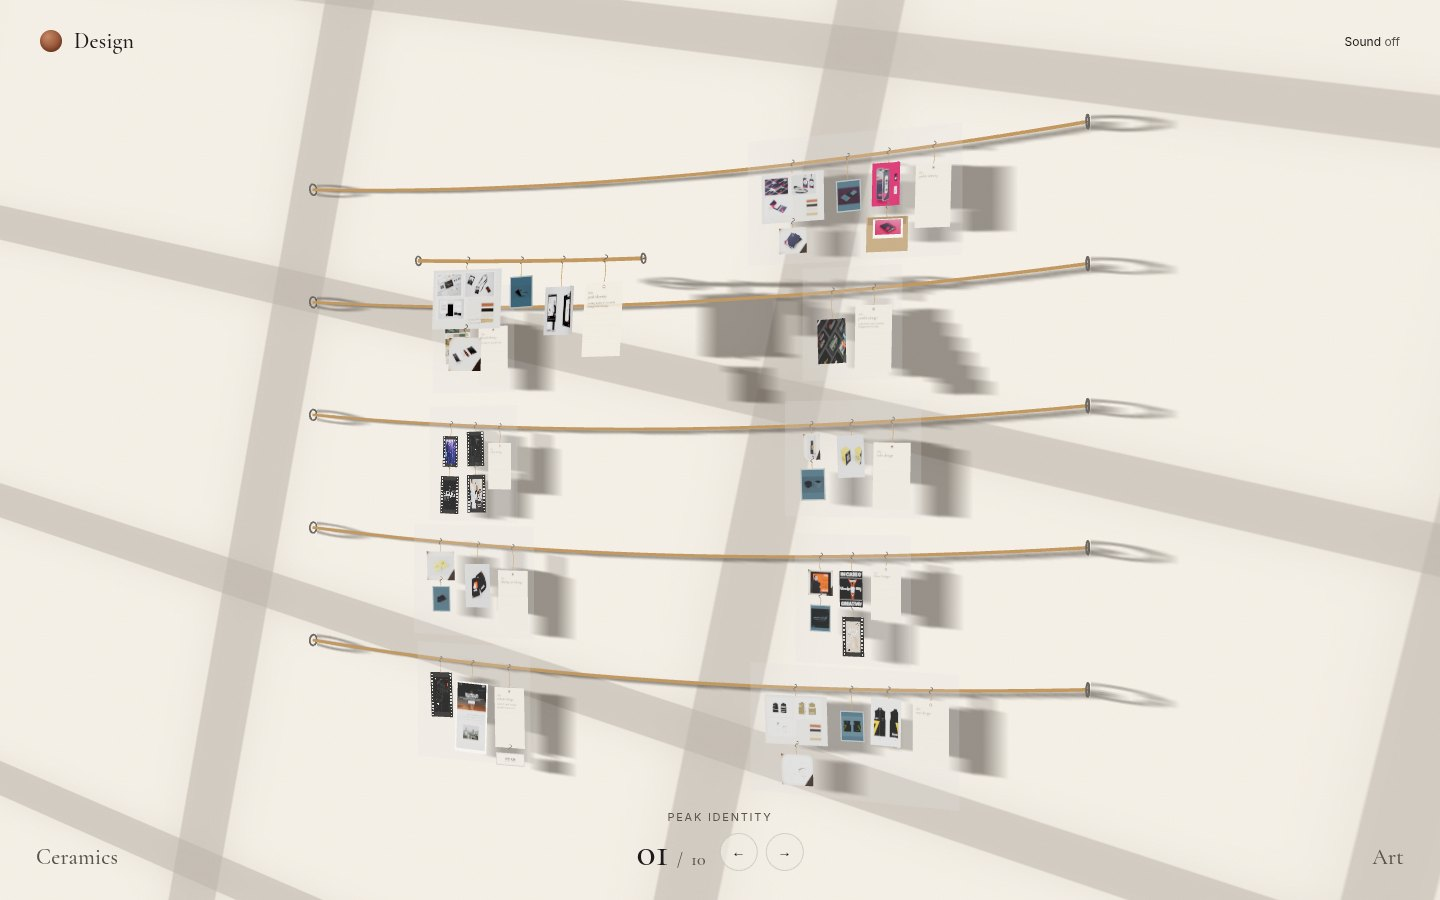
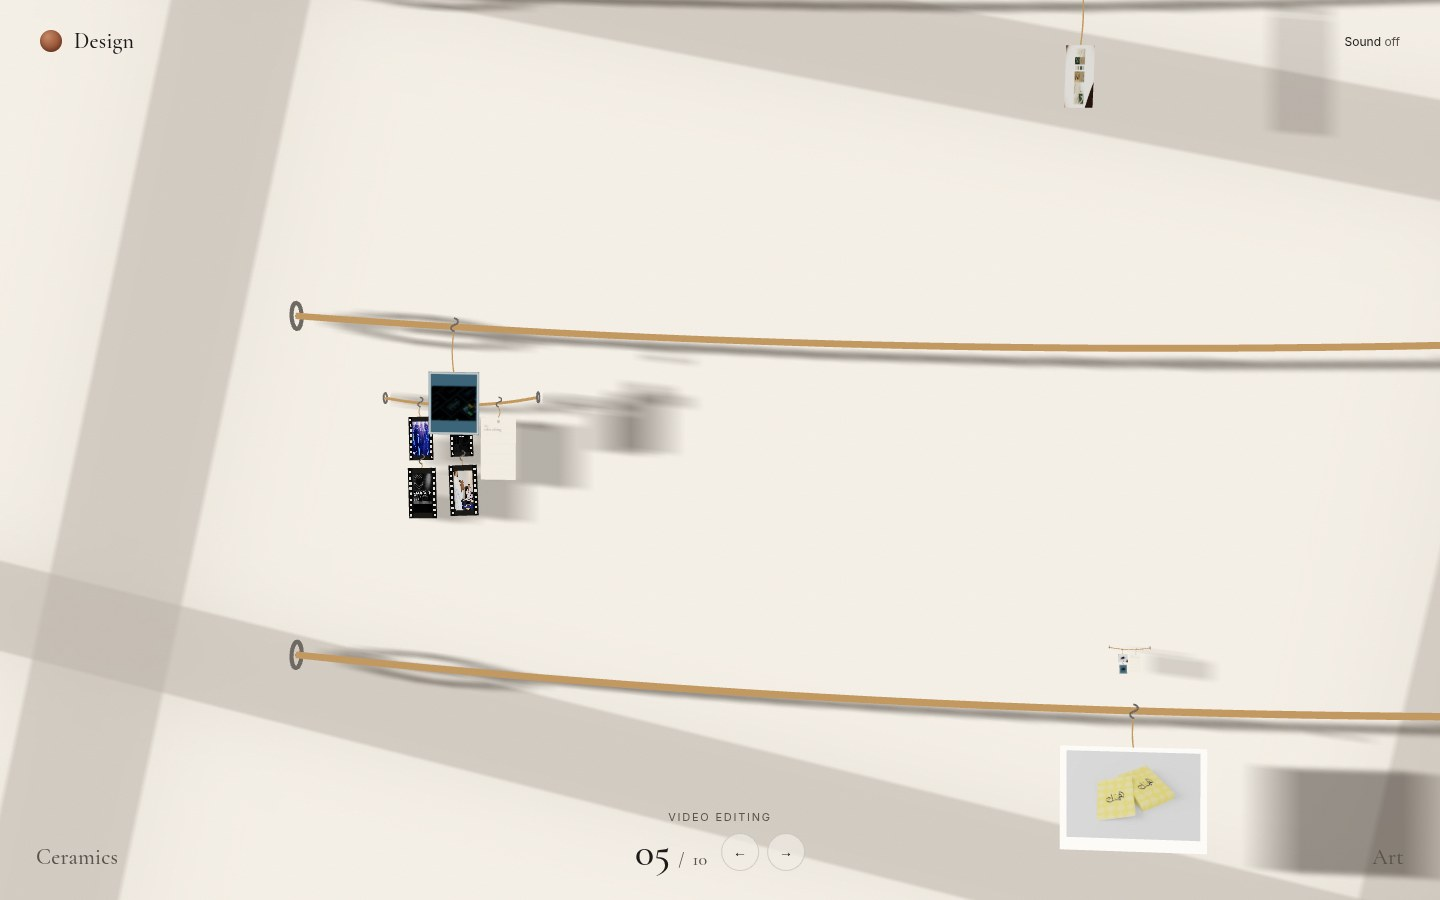
Frame each project so only its cover and back strings show.
The overview stays on the front covers. An arrow zooms in until the
other projects are outside the frame, and that project's back strings
lower into place on the way in.

diff --git a/js/design.js b/js/design.js
@@ -9,8 +9,8 @@ import * as THREE from 'three';
 
 const WALL_HALF = 5.2;
 const SAG = 0.22;
-const ROW_PITCH = 2.4;
-const TOP_Y = 7.3;
+const ROW_PITCH = 1.88;
+const TOP_Y = 6.35;
 const MAX_W = 4.25;
 const COL_MAX = 1.18;
 const TUCK_Y = 0.28;
@@ -681,7 +681,13 @@ export async function createDesign(renderer, { reduce, projects }) {
     const row = Math.floor(index / 2);
     const col = index % 2;
     const cols = Math.min(2, prepared.length - row * 2);
-    const side = cols === 1 ? (place() - 0.5) * 1.4 : (col === 0 ? -1 : 1) * (2.15 + place() * 1.2);
+    const jitter = (place() - 0.5) * 0.55;
+    let side = jitter;
+    if (cols > 1) {
+      const stagger = row % 2 === 0;
+      if (col === 0) side = (stagger ? -4.05 : -0.85) + jitter;
+      else side = (stagger ? 0.85 : 4.05) + jitter;
+    }
     const home = new THREE.Vector3(side, TOP_Y - row * ROW_PITCH, 0.18);
     const lineGroup = new THREE.Group();
     const cluster = lineGroup;
@@ -855,7 +861,7 @@ export async function createDesign(renderer, { reduce, projects }) {
     const heroStyle = entry.cover ? heroStyles[index % heroStyles.length] : 'print';
     const heroRnd = hash(index + 29);
     const heroSize = unitSize(heroStyle, entry.cover || { aspect: 1 });
-    const heroScale = heroStyle === 'cyan' || heroStyle === 'burnt' ? 1.2 : 1.45;
+    const heroScale = heroStyle === 'cyan' || heroStyle === 'burnt' ? 0.95 : 1.12;
     const hero = {
       style: heroStyle,
       image: entry.cover?.image || null,
@@ -885,7 +891,7 @@ export async function createDesign(renderer, { reduce, projects }) {
     const pages = entry.content.filter((item) => item.kind === 'website');
     const rest = entry.content.filter((item) => item.kind !== 'website');
     const hangDepth = heroPivot.position.y - heroBottom;
-    const room = Math.max(0.72, ROW_PITCH - hangDepth - 0.16);
+    const room = Math.max(0.42, ROW_PITCH - hangDepth - 0.36);
     const chunks = [];
     if (pages.length) {
       if (rest.length) chunks.push({ items: rest, tag: false, page: false });
@@ -908,8 +914,8 @@ export async function createDesign(renderer, { reduce, projects }) {
         index * 19 + ri + 4,
         chunk.tag ? (entry.project.text || '') : '',
         {
-          maxW: 2.55,
-          colMax: Math.max(0.42, share - 0.12),
+          maxW: 2.7,
+          colMax: Math.max(0.36, share - 0.06),
           tag: chunk.tag,
         },
       );
@@ -1020,36 +1026,38 @@ export async function createDesign(renderer, { reduce, projects }) {
   }
 
   function overviewPose() {
+    let minX = Infinity;
+    let maxX = -Infinity;
     let minY = Infinity;
     let maxY = -Infinity;
     lines.forEach((line) => {
+      minX = Math.min(minX, Math.min(line.home.x - 0.55, -WALL_HALF));
+      maxX = Math.max(maxX, Math.max(line.home.x + 0.55, WALL_HALF));
       minY = Math.min(minY, line.home.y + line.heroBottom);
       maxY = Math.max(maxY, line.home.y + line.heroTop);
     });
-    const padX = narrow ? 0.45 : 0.7;
-    const padY = narrow ? 0.28 : 0.42;
     fitPose(
-      -WALL_HALF - padX,
-      WALL_HALF + padX,
-      minY - padY,
-      maxY + padY,
+      minX - (narrow ? 0.2 : 0.35),
+      maxX + (narrow ? 0.2 : 0.35),
+      minY - (narrow ? 0.22 : 0.28),
+      maxY + (narrow ? 0.16 : 0.22),
       0.14,
-      narrow ? 0.84 : 0.8,
-      narrow ? 0.28 : 0.78,
+      narrow ? 0.9 : 0.86,
+      narrow ? 0.1 : 0.2,
     );
   }
 
   function focusPose(line) {
-    const padX = narrow ? 0.08 : 0.12;
-    const padY = narrow ? 0.06 : 0.08;
+    const padX = narrow ? 0.06 : 0.1;
+    const padY = narrow ? 0.05 : 0.07;
     fitPose(
       line.minX - padX,
       line.maxX + padX,
       line.minY - padY,
       line.maxY + padY,
       line.home.z,
-      narrow ? 0.92 : 0.9,
-      narrow ? 0.02 : 0.04,
+      narrow ? 0.94 : 0.93,
+      narrow ? 0.015 : 0.03,
     );
   }
 
@@ -1227,7 +1235,7 @@ export async function createDesign(renderer, { reduce, projects }) {
   }
 
   aim(0, true);
-  return {
+  const result = {
     scene,
     camera,
     resize,
@@ -1243,4 +1251,5 @@ export async function createDesign(renderer, { reduce, projects }) {
       project: slot > 0 ? lines[slot - 1].project : null,
     }),
   };
+  return result;
 }
